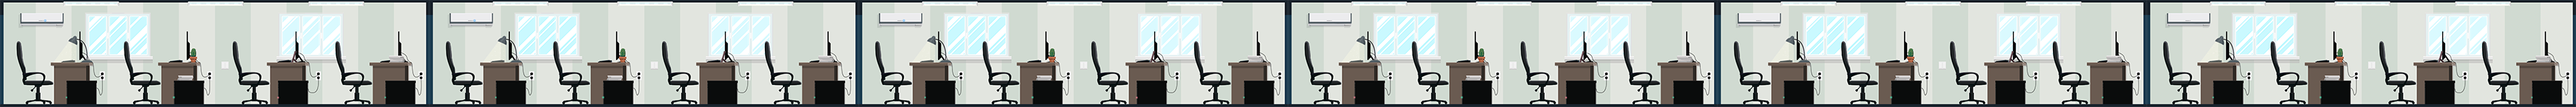
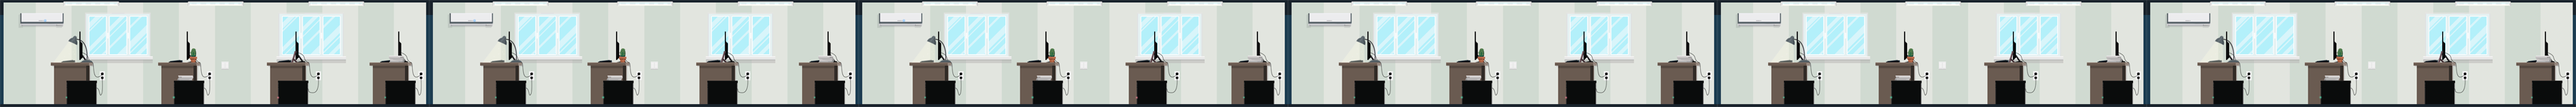
+

diff --git a/src/Office/Office.cpp b/src/Office/Office.cpp
@@ -36,10 +36,14 @@ void Office::updateLogic() {
     //update floor
     floor = ((int) worldCoordinates.y - ((int) worldCoordinates.y % System::gridSize)) / System::gridSize / 3;
 
-    workPlaces[0]->setWorldCoordinates({worldCoordinates.x - width / 2 + 70, worldCoordinates.y - 11});
-    workPlaces[1]->setWorldCoordinates({worldCoordinates.x - width / 2 + 220, worldCoordinates.y - 11});
-    workPlaces[2]->setWorldCoordinates({worldCoordinates.x - width / 2 + 372, worldCoordinates.y - 11});
-    workPlaces[3]->setWorldCoordinates({worldCoordinates.x - width / 2 + 516, worldCoordinates.y - 11});
+    workPlaces[0]->setWorldCoordinates({worldCoordinates.x - width / 2 + 68, worldCoordinates.y - 11});
+    workPlaces[1]->setWorldCoordinates({worldCoordinates.x - width / 2 + 218, worldCoordinates.y - 11});
+    workPlaces[2]->setWorldCoordinates({worldCoordinates.x - width / 2 + 370, worldCoordinates.y - 11});
+    workPlaces[3]->setWorldCoordinates({worldCoordinates.x - width / 2 + 514, worldCoordinates.y - 11});
+
+    for (auto w:workPlaces) {
+        w->update();
+    }
 
     Entity::updateLogic();
 }
@@ -99,10 +103,10 @@ void Office::spawn() {
 }
 
 Office::Office() {
-    workPlaces[0] = new WorkPlace({worldCoordinates.x - 300, worldCoordinates.y}, this);
-    workPlaces[1] = new WorkPlace({worldCoordinates.x - 150, worldCoordinates.y}, this);
-    workPlaces[2] = new WorkPlace({worldCoordinates.x + 150, worldCoordinates.y}, this);
-    workPlaces[3] = new WorkPlace({worldCoordinates.x + 300, worldCoordinates.y}, this);
+    workPlaces[0] = new WorkPlace(worldCoordinates, this);
+    workPlaces[1] = new WorkPlace(worldCoordinates, this);
+    workPlaces[2] = new WorkPlace(worldCoordinates, this);
+    workPlaces[3] = new WorkPlace(worldCoordinates, this);
 
     setSelectable(true);
 }

diff --git a/src/Basic/Movable.cpp b/src/Basic/Movable.cpp
@@ -86,7 +86,7 @@ void Movable::updateLogic() {
         }
     }
 
-    if(state == S_Working){
+    if (state == S_Working) {
         currentSpeed = 0;
         direction = Direction::Right;
     }
@@ -403,8 +403,8 @@ Elevator *Movable::searchNearestElevator() {
     std::map<int, Elevator *> buffer;
 
     for (auto el:elevators) {
-        auto elevatorCenter = el->getRight() - el->getLeft();
-        int distance = std::abs(worldCoordinates.x - elevatorCenter);
+        auto elevatorCenter = el->getLeft() + el->getCabin()->getWidth() / 2;
+        int distance = std::abs((int) worldCoordinates.x - (int) elevatorCenter);
 
         buffer[distance] = el;
     }

diff --git a/main.cpp b/main.cpp
@@ -80,7 +80,7 @@ int main() {
             }
 
             if (e.type == sf::Event::MouseWheelScrolled) {
-//                ViewHandler::handleViewZoomKeyPress(e);
+                ViewHandler::handleViewZoomKeyPress(e);
             }
 
             if (e.type == sf::Event::KeyPressed && e.key.code == sf::Keyboard::V) {
@@ -132,7 +132,7 @@ int main() {
                 auto count = 8;
 
                 for (int i = 0; i < count; ++i) {
-                    auto c = new Clerk({(float) 300 + (i * 90), 300.f});
+                    auto c = new Clerk({(float) 100 + (i * 90), 300.f});
                     c->spawn();
                 }
             }

diff --git a/src/Component/WorkPlace.cpp b/src/Component/WorkPlace.cpp
@@ -1,4 +1,5 @@
 #include <System/System.h>
+#include <Office/Chair.h>
 #include "WorkPlace.h"
 
 const sf::Vector2f &WorkPlace::getWorldCoordinates() const {
@@ -36,11 +37,18 @@ void WorkPlace::drawDebug() {
     rect.setPosition(System::cToGl(worldCoordinates));
     rect.setSize({15, 15});
 
-    if(worker){
+    if (worker) {
         rect.setFillColor(sf::Color::Red);
-    }else{
+    } else {
         rect.setFillColor(sf::Color::Green);
     }
 
     System::window->draw(rect);
+}
+
+void WorkPlace::update() {
+
+    if (worker && !chair) {
+        chair = new Chair({worldCoordinates.x - 23, worldCoordinates.y - 16});
+    }
 }

diff --git a/src/System/Enum.h b/src/System/Enum.h
@@ -7,8 +7,11 @@ enum Multiplier {
 
 enum DrawOrder {
     D_Offices = 98,
+    D_Characters_Wokring = 100,
+    D_Chair = 105,
     D_ElevatorShafts = 110,
-    D_ElevatorCabin = 120
+    D_ElevatorCabin = 120,
+    D_Characters = 200
 };
 
 enum Gender {
@@ -75,7 +78,11 @@ enum Entities {
             E_ElevatorShaftBottom = 51,
     E_ElevatorShaftMiddle = 52,
     E_ElevatorShaftTop = 53,
-    E_ElevatorCabin = 54
+    E_ElevatorCabin = 54,
+
+
+    //Other
+    E_Chair = 91,
 };
 
 #endif

diff --git a/src/Office/Chair.cpp b/src/Office/Chair.cpp
@@ -1,0 +1,18 @@
+#include <System/ResourceLoader.h>
+#include <System/EntityContainer.h>
+#include "Chair.h"
+
+Chair::Chair(sf::Vector2f coordinates) {
+    setName("chair");
+
+    setWidth(Chair::width);
+    setHeight(Chair::height);
+
+    setWorldCoordinates(coordinates);
+    addAnimation(S_None, Animation(this, S_None, 1, ResourceLoader::getTexture(E_Chair)));
+
+    setDrawOrder(D_Chair);
+    initEntity();
+
+    EntityContainer::add(this);
+}

diff --git a/src/Component/WorkPlace.h b/src/Component/WorkPlace.h
@@ -12,7 +12,7 @@ class WorkPlace {
     sf::Vector2f worldCoordinates;
     Office *parentOffice = nullptr;
     Movable *worker = nullptr;
-
+    Entity *chair = nullptr;
 public:
     WorkPlace(const sf::Vector2f &worldCoordinates, Office *parentOffice);
 
@@ -27,6 +27,8 @@ public:
     Movable *getWorker() const;
 
     void setWorker(Movable *worker);
+
+    void update();
 
     void drawDebug();
 };

diff --git a/src/Office/Chair.h b/src/Office/Chair.h
@@ -1,0 +1,18 @@
+#ifndef THE_CORP_GAME_CHAIR_H
+#define THE_CORP_GAME_CHAIR_H
+
+
+#include <Basic/Entity.h>
+
+class Chair : public Entity {
+
+    const static int width = 53;
+    const static int height = 89;
+
+public:
+    explicit Chair(sf::Vector2f coordinates);
+
+};
+
+
+#endif //THE_CORP_GAME_CHAIR_H

diff --git a/src/Objects/ElevatorCabin.cpp b/src/Objects/ElevatorCabin.cpp
@@ -14,6 +14,7 @@ ElevatorCabin::ElevatorCabin(sf::Vector2f coordinates) {
     setWorldCoordinates(coordinates);
     addAnimation(S_None, Animation(this, S_None, 1, ResourceLoader::getTexture(E_ElevatorCabin)));
 
+    setSelectable(true);
     setDrawOrder(DrawOrder::D_ElevatorCabin);
     initEntity();
 

diff --git a/src/System/ResourceLoader.cpp b/src/System/ResourceLoader.cpp
@@ -33,6 +33,7 @@ namespace ResourceLoader {
 
     void loadTexturesFromFiles() {
         ResourceLoader::loadTexture(Entities::E_OfficeDefault, "resources/office/office.default.png");
+        ResourceLoader::loadTexture(Entities::E_Chair, "resources/office/chair.png");
 
 
         //----<<Clerk>>-----

diff --git a/src/Characters/Clerk.cpp b/src/Characters/Clerk.cpp
@@ -27,7 +27,7 @@ Clerk::Clerk(sf::Vector2f coordinates) : Movable() {
     setSelectable(true);
 
 
-    setDrawOrder(1000);
+    setDrawOrder(D_Characters);
     initEntity();
 
     System::salaryTotal += dailySalary;
